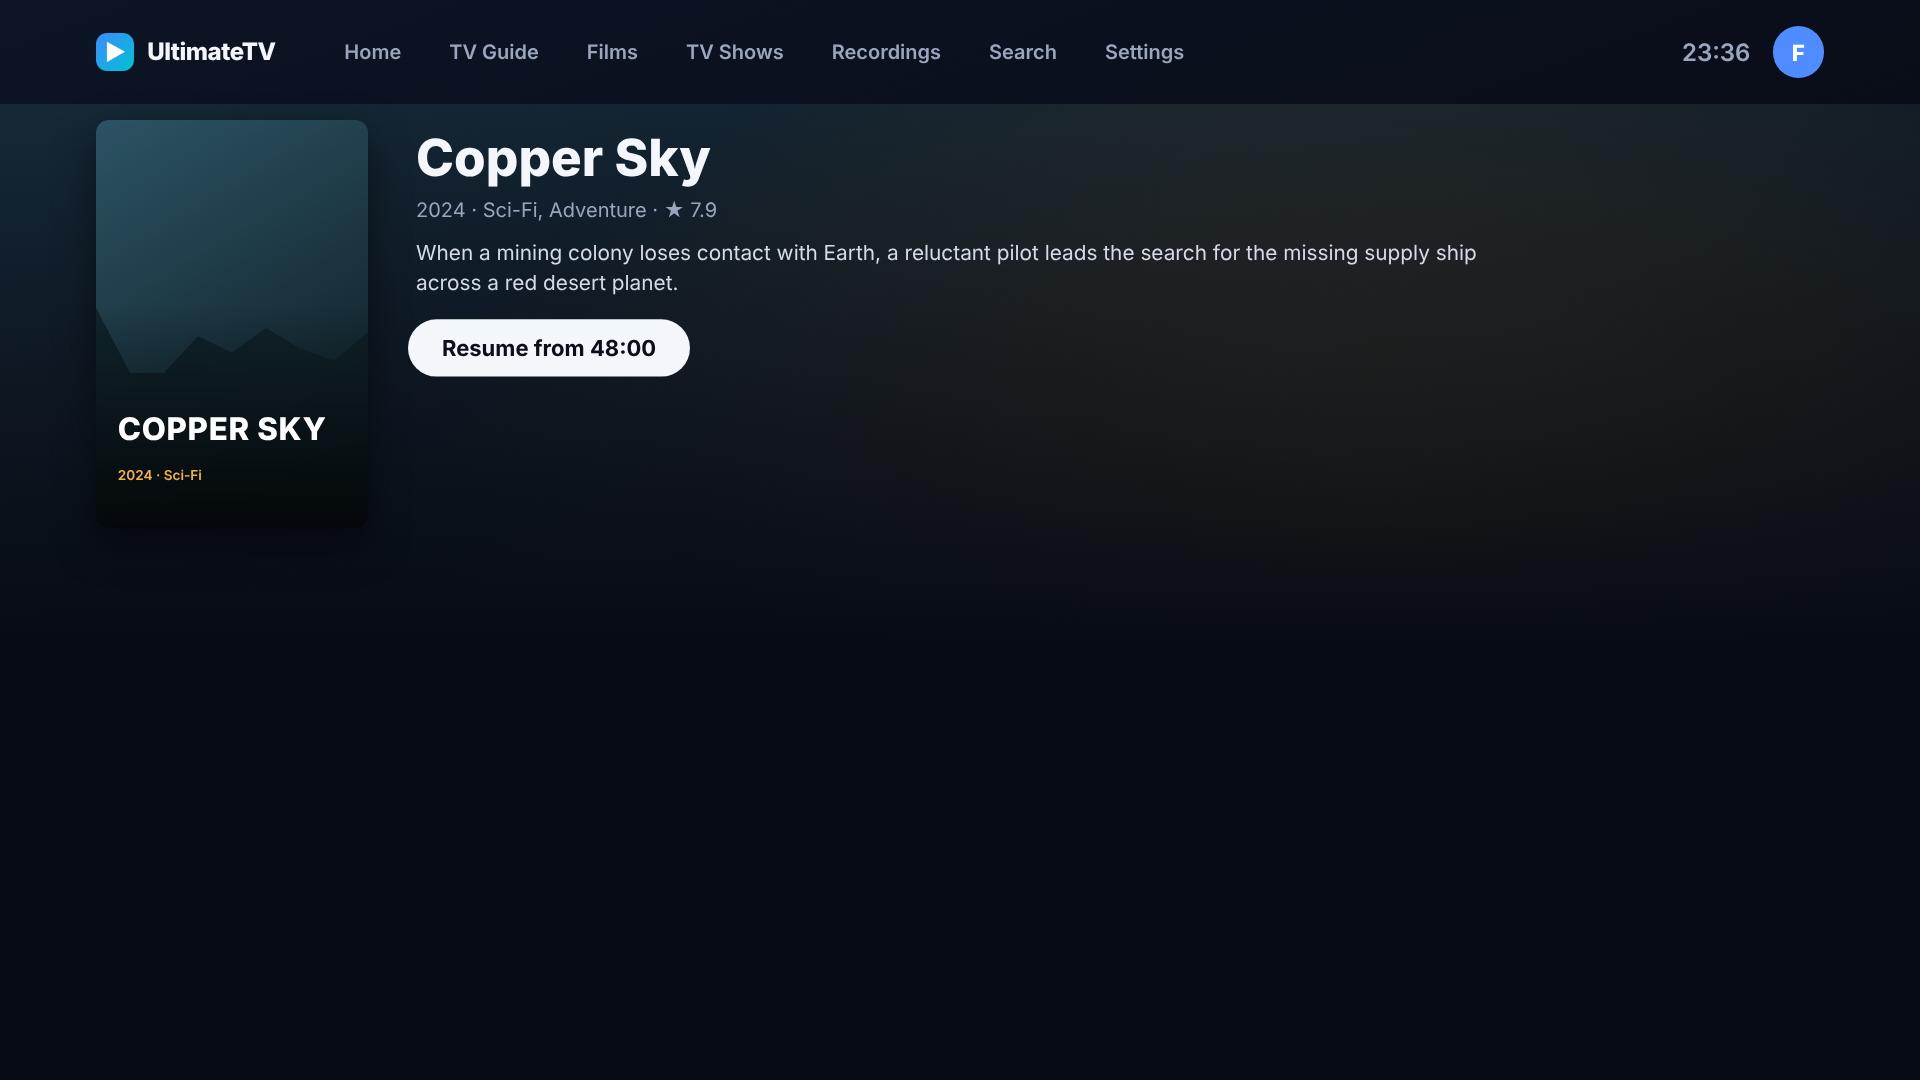
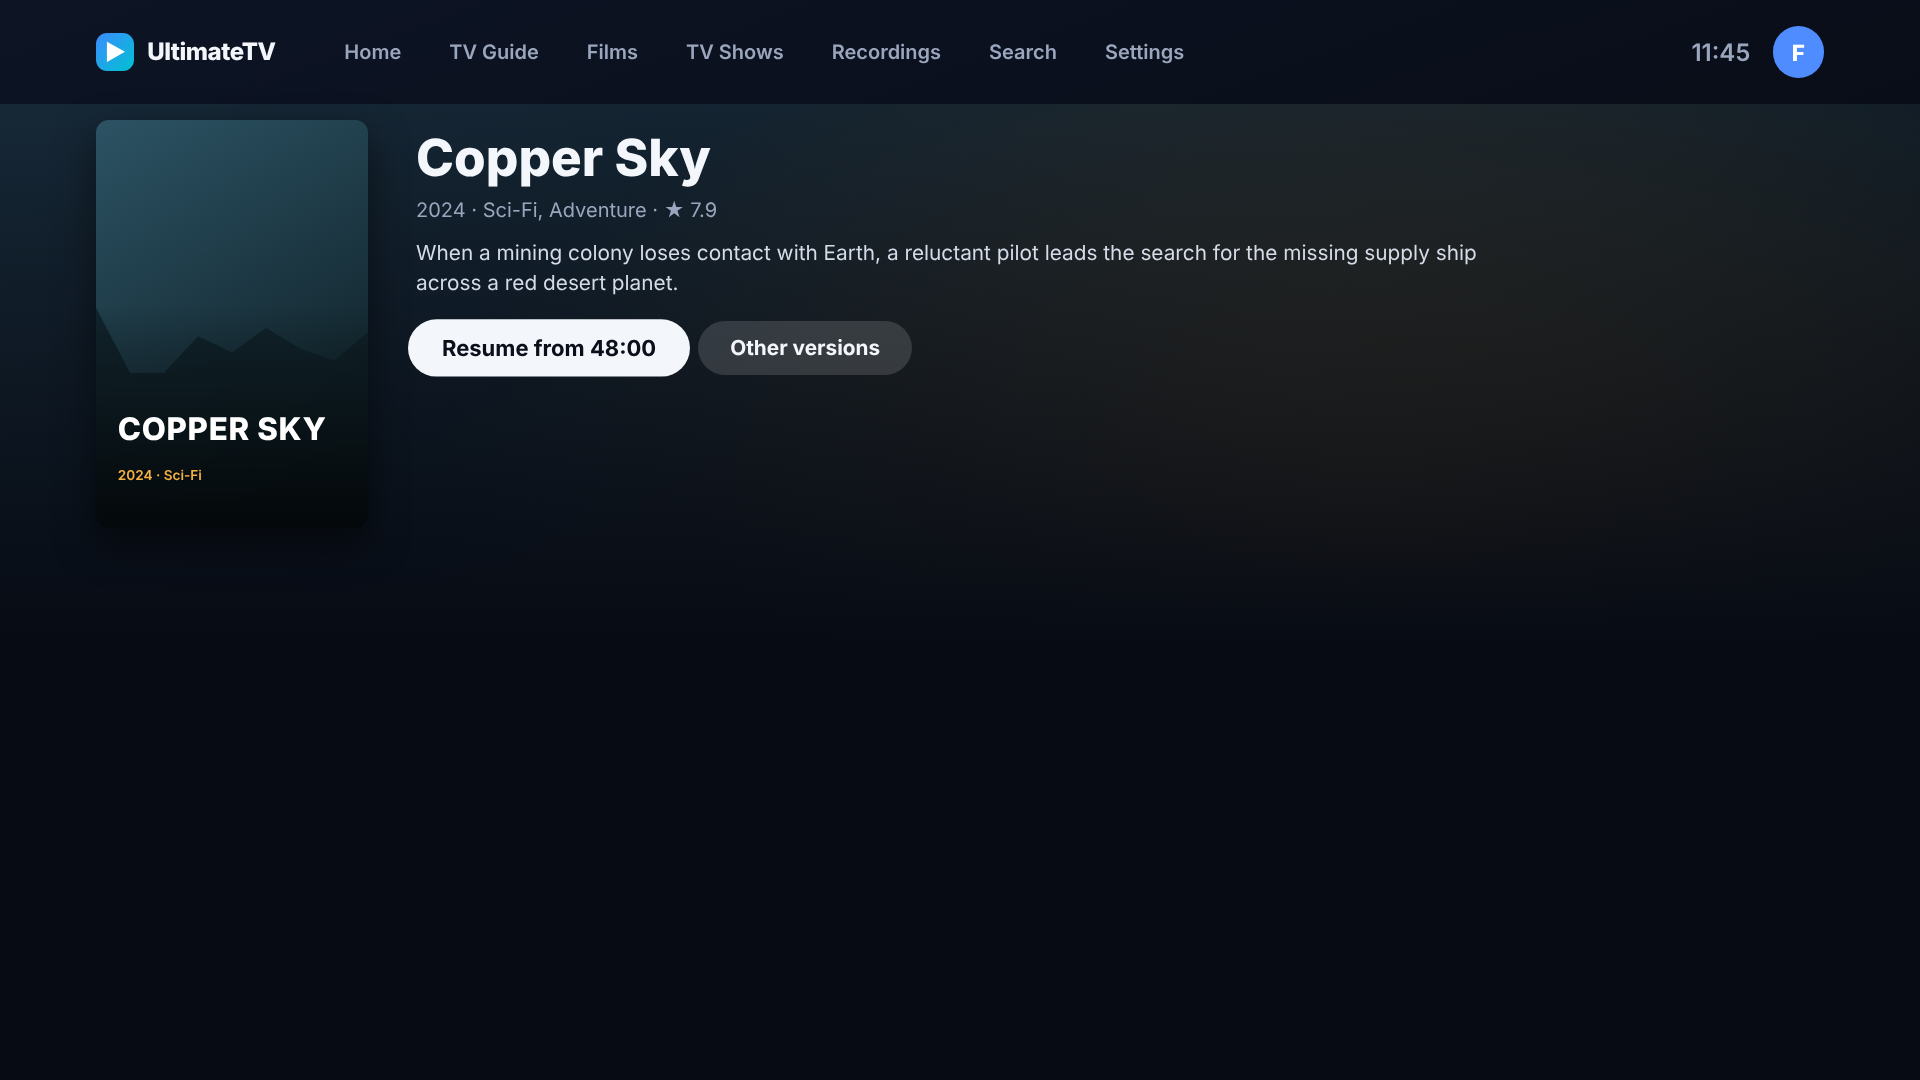
LG app: choose a version of a film or episode
Claude-Session: https://claude.ai/code/session_01NwRYZoxMEZaydMy63SpYt7

Changed region(s): [[0.3438, 0.275, 0.5, 0.3667], [0.875, 0.0306, 0.9062, 0.0611]]

diff --git a/lg/js/app.js b/lg/js/app.js
@@ -583,7 +583,7 @@
       var factsEl = h("div", { class: "facts" });
       facts.forEach(function (f, i) { if (i) factsEl.appendChild(document.createTextNode("   ·   ")); factsEl.appendChild(typeof f === "object" ? f : document.createTextNode(String(f))); });
       var play = playButton(t);
-      var buttons = h("div", {}, [play]);
+      var buttons = h("div", {}, [play, versionsButton(t), series ? h("div", { class: "hint", text: "Yellow on an episode: its versions" }) : null]);
       area.appendChild(h("div", { class: "details-main" }, [
         h("div", { class: "details-poster", style: t.poster ? "background-image:url('" + imgFor(t.poster).replace(/'/g, "%27") + "')" : "" }),
         h("div", { class: "details-info" }, [h("h1", { text: t.name }), factsEl, h("div", { class: "overview", text: t.overview || "" }), buttons]),
@@ -599,6 +599,7 @@
             h("div", { class: "still", style: ep.still ? "background-image:url('" + imgFor(ep.still).replace(/'/g, "%27") + "')" : "" }, ep.progress > 0 && ep.progress < 1 ? [h("div", { class: "bar" }, [h("i", { style: "width:" + Math.round(ep.progress * 100) + "%" })])] : []),
             h("div", { class: "now" }, [h("b", { text: ep.episode + ". " + ep.name + (ep.watched ? "  ✓" : "") }), h("span", { text: UTV.clip(ep.overview || "", 160) })]),
           ]);
+          row.setAttribute("data-ep", "s" + ep.season + "e" + ep.episode);
           list.appendChild(focusable(row, function () { playTitle(t.id, "s" + ep.season + "e" + ep.episode); }));
         });
         sa.appendChild(list);
@@ -610,8 +611,19 @@
       var label = t.resumeMs > 5000 ? "Resume from " + UTV.duration(t.resumeMs / 1000) : t.kind === "series" && t.episodeId ? "Play " + t.episodeId.toUpperCase().replace("S", "S").replace("E", " E") : "Play";
       return button(label, function () { playTitle(t.id, episode); }, true);
     }
+    function versionsButton(t) {
+      var ep = t.kind === "series" ? (t.episodeId || (t.seasons && t.seasons[0] && t.seasons[0].episodes[0] ? "s" + t.seasons[0].episodes[0].season + "e" + t.seasons[0].episodes[0].episode : undefined)) : undefined;
+      return button("Other versions", function () { chooseVersion(t, ep); });
+    }
     return {
       el: el,
+      key: function (action) {
+        if (action !== "yellow" || !details) return false;
+        var f = document.activeElement;
+        var ep = f && f.getAttribute ? f.getAttribute("data-ep") : null;
+        if (ep) { chooseVersion(details, ep); return true; }
+        return false;
+      },
       start: function () {
         Hub.title(p.id).then(function (t) {
           details = t;
@@ -649,6 +661,42 @@
 
   function playChannel(id) { startPlay({ kind: "channel", id: id }, { live: true, channelId: id }); }
   function playTitle(id, episodeId) { startPlay(episodeId ? { kind: "title", id: id, episodeId: episodeId } : { kind: "title", id: id }, {}); }
+  /** Every copy the sources have (4K remux, 1080p, IPTV…), to play the one you pick. */
+  function chooseVersion(t, episodeId) {
+    var back = document.activeElement;
+    var menu = h("div", { class: "v-menu" }, [h("h3", { text: "Choose a version" + (episodeId ? " · " + episodeId.toUpperCase() : "") }), h("div", { class: "v-note", text: "Asking every source…" })]);
+    document.body.appendChild(menu);
+    function close() {
+      if (menu.parentNode) menu.parentNode.removeChild(menu);
+      Nav.handle(onScreenKey);
+      if (back && document.body.contains(back)) Nav.focus(back);
+    }
+    Nav.handle(function (a) { if (a === "back") { close(); return true; } return false; });
+    Hub.streams(t.id, episodeId).then(function (r) {
+      if (!menu.parentNode) return;
+      var list = (r && r.streams) || [];
+      menu.removeChild(menu.querySelector(".v-note"));
+      if (!list.length) { menu.appendChild(h("div", { class: "v-note", text: "No versions found yet." })); return; }
+      var box = h("div", { class: "v-list scroll-y" });
+      list.forEach(function (s) {
+        var q = s.quality || {};
+        var badges = (s.badges || []).join("  ·  ");
+        var row = focusable(h("button", { class: "setting v-row" }, [
+          h("span", { class: "v-main" }, [h("b", { text: s.label || s.kind || "" }), h("small", { text: badges || (q.height ? q.height + "p" : "") })]),
+          h("small", { text: [UTV.bytes(q.sizeBytes), s.ready ? "Ready" : "Not cached"].filter(Boolean).join("  ·  ") }),
+        ]), function () {
+          close();
+          var req = { kind: "title", id: t.id, streamId: s.id };
+          if (episodeId) req.episodeId = episodeId;
+          startPlay(req, {});
+        });
+        box.appendChild(row);
+      });
+      menu.appendChild(box);
+      Nav.focus(box.querySelector(".f"));
+    }, function (e) { close(); failed(e); });
+  }
+
   function playRecording(r) { startPlay({ kind: "recording", id: r.id }, {}); }
 
   function startPlay(request, meta, force) {

diff --git a/lg/js/util.js b/lg/js/util.js
@@ -152,7 +152,14 @@
     for (var k in palette) if (Object.prototype.hasOwnProperty.call(palette, k) && k.indexOf("--") === 0) style.setProperty(k, palette[k]);
   }
 
-  var api = { DEFAULT_HUB: DEFAULT_HUB, normaliseHub: normaliseHub, absolute: absolute, clock: clock, duration: duration, runtime: runtime, clip: clip, esc: esc, keyAction: keyAction, pickNext: pickNext, skipAt: skipAt, SKIP_LABEL: SKIP_LABEL, deviceHeaders: deviceHeaders, progressBody: progressBody, titleSub: titleSub, applyPalette: applyPalette };
+  /** 1.5 GB, 700 MB: a file's size for the Versions list. */
+  function bytes(n) {
+    if (!n || n < 0) return "";
+    if (n >= 1e9) return (n / 1e9).toFixed(n >= 1e10 ? 0 : 1) + " GB";
+    return Math.max(1, Math.round(n / 1e6)) + " MB";
+  }
+
+  var api = { bytes: bytes, DEFAULT_HUB: DEFAULT_HUB, normaliseHub: normaliseHub, absolute: absolute, clock: clock, duration: duration, runtime: runtime, clip: clip, esc: esc, keyAction: keyAction, pickNext: pickNext, skipAt: skipAt, SKIP_LABEL: SKIP_LABEL, deviceHeaders: deviceHeaders, progressBody: progressBody, titleSub: titleSub, applyPalette: applyPalette };
   if (typeof module !== "undefined" && module.exports) module.exports = api;
   else root.UTV = Object.assign(root.UTV || {}, api);
 })(typeof window !== "undefined" ? window : globalThis);

diff --git a/lg/css/app.css b/lg/css/app.css
@@ -170,3 +170,13 @@ button { font: inherit; color: inherit; background: none; border: 0; padding: 0;
 .p-menu .setting { height: 3.8rem; font-size: 1.2rem; margin-bottom: 0.3rem; }
 .p-menu .setting.on small { color: var(--accent-2); }
 .toast { position: absolute; left: 50%; bottom: 5rem; transform: translateX(-50%); padding: 1rem 2rem; border-radius: 0.8rem; background: rgba(18,27,46,0.96); font-size: 1.3rem; z-index: 9; max-width: 70rem; text-align: center; }
+
+.hint { margin-top: 1rem; font-size: 1.05rem; color: var(--muted); }
+.v-menu { position: absolute; left: 50%; width: 70rem; margin-left: -35rem; top: 14rem; margin-top: 0; padding: 1.6rem; border-radius: 1.2rem; background: #121b2e; box-shadow: 0 0 0 100rem rgba(0,0,0,0.55); z-index: 60; }
+.v-menu h3 { margin: 0 0 1rem 0.5rem; font-size: 1.5rem; }
+.v-note { padding: 1.5rem; font-size: 1.3rem; color: var(--muted); }
+.v-list { position: relative; max-height: 36rem; overflow: hidden; }
+.v-row { height: 5.4rem; }
+.v-main { display: block; }
+.v-main b { display: block; font-size: 1.3rem; }
+.v-main small { display: block; margin-top: 0.2rem; }

diff --git a/lg/js/hub.js b/lg/js/hub.js
@@ -108,6 +108,7 @@
     home: function () { return request("GET", "/api/home"); },
     browse: function (kind) { return request("GET", "/api/browse/" + kind); },
     title: function (id) { return request("GET", "/api/titles/" + encodeURIComponent(id)); },
+    streams: function (id, episodeId) { return request("GET", "/api/titles/" + encodeURIComponent(id) + "/streams" + (episodeId ? "?episode=" + encodeURIComponent(episodeId) : ""), undefined, { timeout: 90000 }); },
     nowNext: function () { return request("GET", "/api/nownext"); },
     recordings: function () { return request("GET", "/api/recordings"); },
     search: function (q) { return request("GET", "/api/search?q=" + encodeURIComponent(q)); },

diff --git a/lg/test/util.test.ts b/lg/test/util.test.ts
@@ -53,6 +53,13 @@ describe("LG TV app helpers", () => {
     expect(U.deviceHeaders(2160)["X-Codecs"]).toBe("h264,hevc,vp9");
     expect(U.deviceHeaders(1080)["X-Max-Height"]).toBe("1080");
   });
+
+  it("writes file sizes for the Versions list", () => {
+    expect(U.bytes(0)).toBe("");
+    expect(U.bytes(700e6)).toBe("700 MB");
+    expect(U.bytes(1.5e9)).toBe("1.5 GB");
+    expect(U.bytes(42e9)).toBe("42 GB");
+  });
 });
 
 describe("LG TV player helpers", () => {

diff --git a/docs/lg.md b/docs/lg.md
@@ -78,14 +78,14 @@ The install is only good while the session lasts, so extend it before it runs ou
 ## What it does
 
 The same as the Samsung app: Home (the profile's rows, in order), TV Guide (OK plays live; **CH+/CH−**
-change channel in the player), Films, TV Shows, title details with seasons and episodes, Recordings,
+change channel in the player), Films, TV Shows, title details with seasons and episodes and **Other versions** (on an episode, press the yellow key) to pick a 4K, 1080p or other copy, Recordings,
 Search, Settings (Hub address, who's watching, picture quality, check the Hub, unpair), and a player with
 pause, ±10 s (◄ ►), ±60 s (rewind and fast-forward), skip intro / recap / credits (press OK when the button
 shows), next episode, audio and subtitle tracks (▼ or the blue key) and progress sent back to the Hub.
 The Hub's theme (including the seasonal ones) is applied on every start.
 
 Not in this version (they stay on the main TV and the phone): music channels, Cast & games, the family
-board, recordings management, downloads, the Versions list on a title and the screensaver.
+board, recordings management, downloads and the screensaver.
 
 Remote keys: arrows and OK as usual, **Back** goes back (and leaves the app from the first screen),
 play, pause, stop, rewind and fast-forward work in the player, and the colour keys: **blue** opens audio
